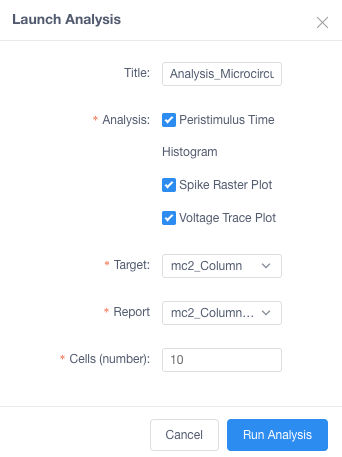
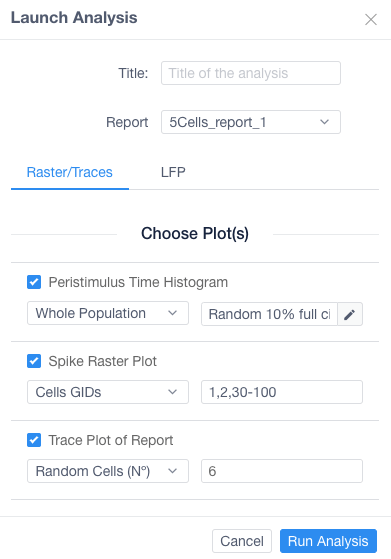
Improve docs (2/2)

diff --git a/docs/run_simulation.md b/docs/run_simulation.md
@@ -46,7 +46,7 @@ In this section you will learn how to launch some predefined analysis like: _Per
 
   ![simulation_list](images/simulation_list.png)
 
-- Configure which analysis you want to run and how many cells (neurons) you want to analyze
+- Configure which analysis you want to run and which cells (neurons) you want to analyze
 
   ![launch_analysis](images/launch_analysis.png)
 
